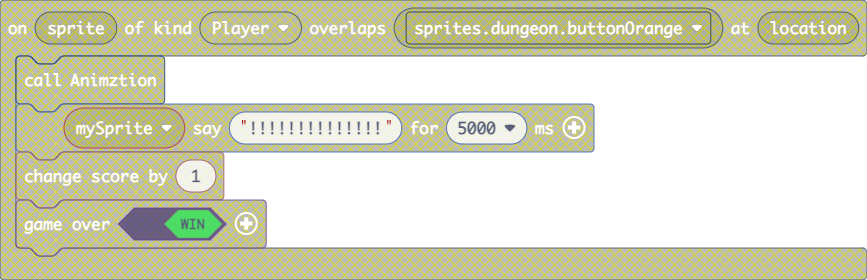
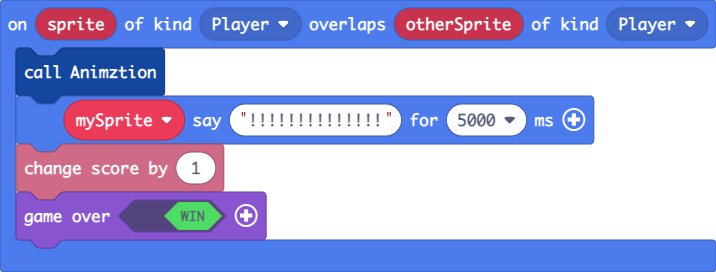
Update main.blocks, main.ts

diff --git a/main.ts b/main.ts
@@ -81,6 +81,12 @@ function Animztion () {
     false
     )
 }
+sprites.onOverlap(SpriteKind.Player, SpriteKind.Player, function (sprite, otherSprite) {
+    Animztion()
+    mySprite.say("!!!!!!!!!!!!!!", 5000)
+    info.changeScoreBy(1)
+    game.over(true)
+})
 let mySprite: Sprite = null
 let mySprite2 = sprites.create(img`
     . . . . . . . . . . . . . . . . 
